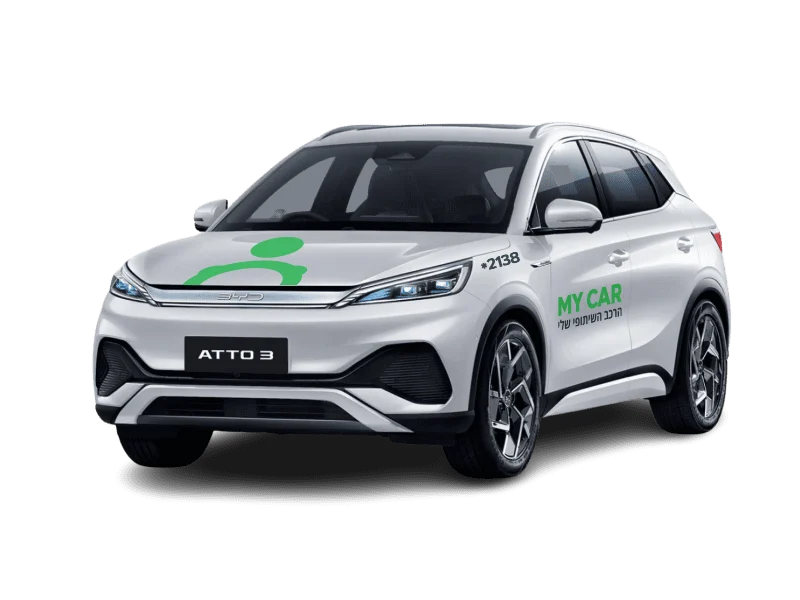
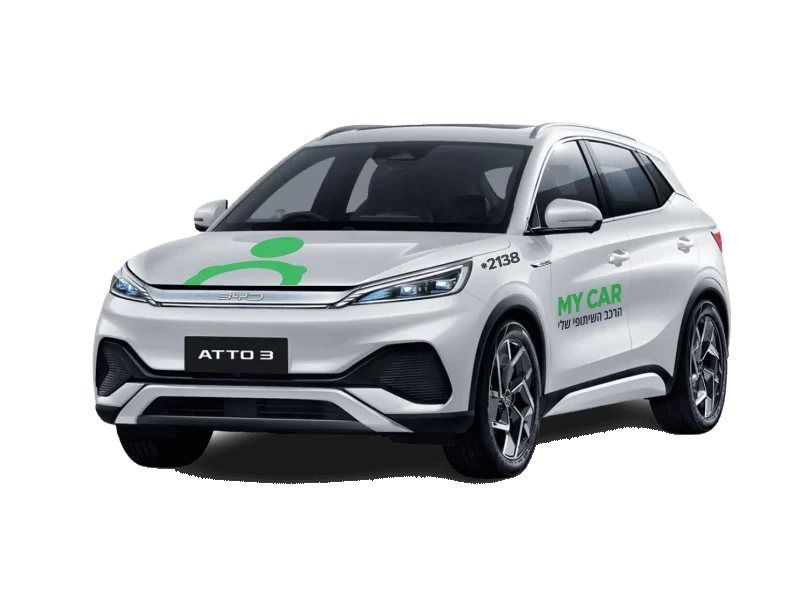
Car photos: remove baked and CSS shadows
Claude-Session: https://claude.ai/code/session_01DDxg6W4BWz9aaaCbh8JMdL

Changed region(s): [[0.1562, 0.69, 0.875, 0.84], [0.875, 0.69, 0.9062, 0.72]]

diff --git a/site/index.html b/site/index.html
@@ -1354,6 +1354,9 @@ body{font-weight:400}
 .sth{border-color:transparent!important;border-bottom:2px solid transparent!important;border-radius:0!important}
 .sth.on{border-bottom-color:var(--hg)!important}
 @media (hover:hover) and (pointer:fine){.sth:hover{border-bottom-color:#b9dcc7!important}}
+/* no shadows on car photos */
+.simg::after{display:none!important}
+.simg img,.slide .art img,.marquee img,.sth img,.stage img,.floatbook img{filter:none!important}
 </style>
 <style>:root{box-sizing:border-box;padding-top:env(safe-area-inset-top,0px);padding-bottom:env(safe-area-inset-bottom,0px)}body{margin:0}img{max-width:100%}[hidden]{display:none!important}</style>
 </head>
